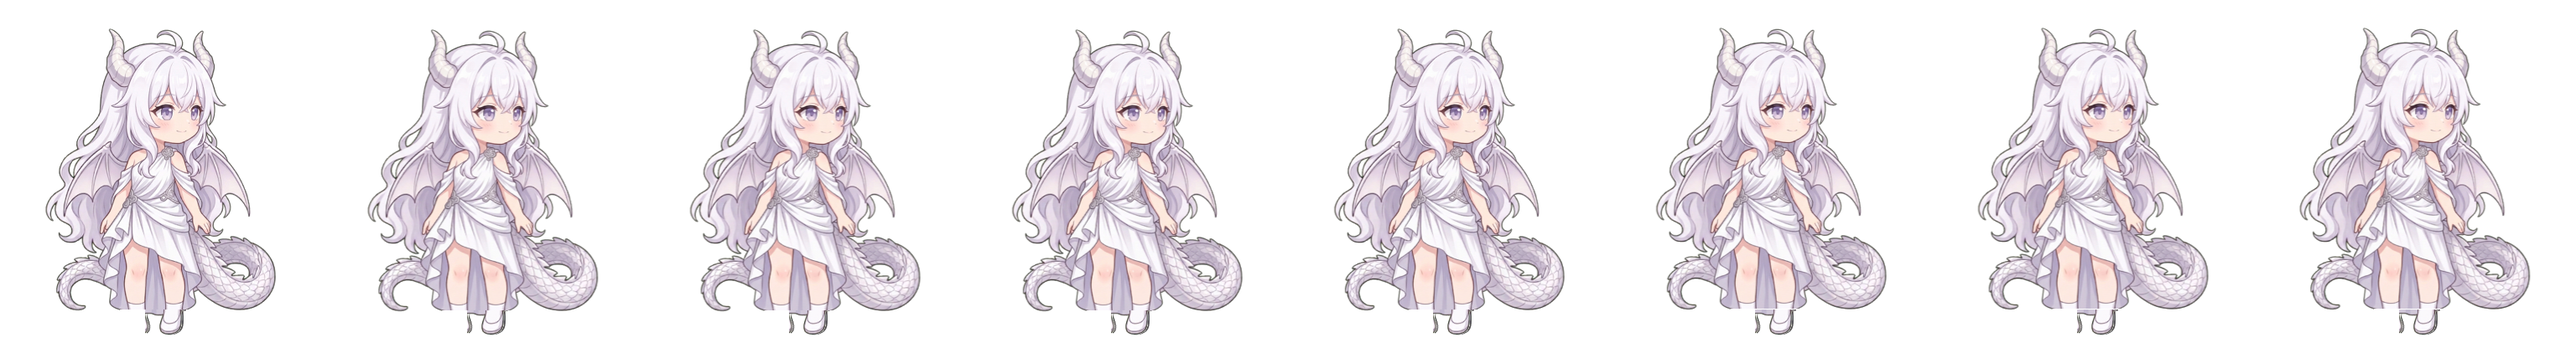
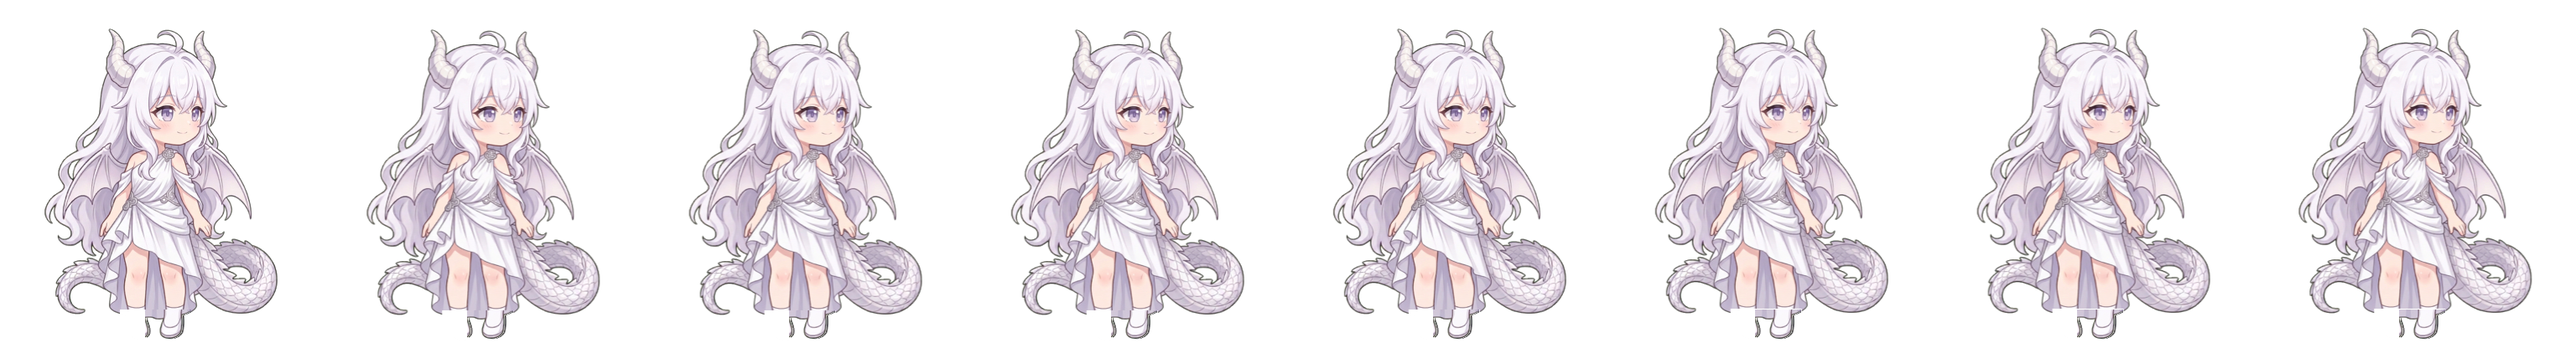
走路改成"逐帧成品立绘"（对标上游 pets），kimi 已切换
上游 ai-girl-chatgpt-pets 的 running-right 是每帧单独画一张全身像：
8 格 bbox 几乎完全一致（38,37,153,203），腿是画出来的、不是切出来的。
我们的单腿切片骨架一迈步就变成"两条断腿"，方向错了。

- walk_cycle_v14.mjs 新增逐帧成品模式：`frames/<char>/f1..f8.png` 八张齐全时，
  直接 抠白 → 按身高归一到 ART_H（每帧同高）→ 脚底贴 GROUND_Y →
  上半身重心对到单元格中线 → 拼成 8 格图集；不切腿、不蒙皮、不形变。
  没有逐帧立绘的角色自动退回原骨架，一张补齐就切换一张。
- cutoutWhite 增加"底部地面灰带"剔除：生成图底部那条浅灰地面线 flood fill 进不去，
  会把包围盒撑满整张图，导致人物忽大忽小、脚下挂一条灰边。
- 新工具 slice_walk_sheet.py：一张 2×2 四格姿态图 → 4 张逐帧立绘
  （顺便擦掉每格底部地面线、按 inset 内缩）。一次生图稳定出 4 个姿态，
  所以每个角色只需 2 张四格图 = 8 帧。
- kimi：用 8 张单独生成的走路立绘切到逐帧成品模式（f1 触地 → f2 蹬地 →
  f3 提膝 → f4 前伸，f5..f8 反相半套），腿全程和身体连着，不再有断腿/复制腿。

验证：atlas 重烘 9 套；metrics 87 条；tools/engine 64/65、tools/remotion-engine 3/4（均为既有失败）。

diff --git a/tools/remotion-engine/slice_walk_sheet.py b/tools/remotion-engine/slice_walk_sheet.py
@@ -1,0 +1,95 @@
+#!/usr/bin/env python3
+"""slice_walk_sheet.py — 把「2×2 四格走路姿态图」切成 4 张逐帧立绘
+
+对标上游 pets 的做法：走路的每一帧都是**画出来的全身像**，不是从一张站姿里切腿。
+一次生图能稳定产出 4 个姿态，所以每个角色只要 2 张四格图 = 8 帧。
+
+用法：
+    # 第一张四格图 → f1..f4
+    python3 tools/remotion-engine/slice_walk_sheet.py sheet_a.png --char whale --offset 1
+    # 第二张四格图 → f5..f8
+    python3 tools/remotion-engine/slice_walk_sheet.py sheet_b.png --char whale --offset 5
+
+产物：assets/ai-girls/walk-v14/frames/<char>/f1.png … f8.png
+之后 `node tools/remotion-engine/build_walk_v14.mjs <char>` 会直接按逐帧成品拼图集。
+
+切完会顺手处理掉两件生成图常见的问题：
+  * 每个格子底部那条「地面线」——不擦掉会变成脚下一根黑条；
+  * 格子边缘的重叠/白边——按 alpha 之外的白底留 2% 余量。
+"""
+
+import argparse
+import os
+import sys
+
+from PIL import Image
+
+ROOT = os.path.abspath(os.path.join(os.path.dirname(__file__), '..', '..'))
+FRAME_ROOT = os.path.join(ROOT, 'assets', 'ai-girls', 'walk-v14', 'frames')
+
+ORDER = ['f1', 'f2', 'f3', 'f4']  # 左上、右上、左下、右下 → 帧序
+
+
+def is_ground_line(px):
+    r, g, b = px[0], px[1], px[2]
+    mx, mn = max(r, g, b), min(r, g, b)
+    return mx - mn <= 26 and 24 <= mn <= 150
+
+
+def strip_ground_line(tile):
+    """把格子底部那条横贯全宽的地面线擦成白底。"""
+    tile = tile.convert('RGB')
+    w, h = tile.size
+    px = tile.load()
+    removed = 0
+    for y in range(h - 1, int(h * 0.55) - 1, -1):
+        dark = sum(1 for x in range(w) if is_ground_line(px[x, y]))
+        if dark >= w * 0.55:
+            for x in range(w):
+                px[x, y] = (255, 255, 255)
+            removed += 1
+        elif removed:
+            break
+    return tile
+
+
+def main():
+    ap = argparse.ArgumentParser()
+    ap.add_argument('sheet')
+    ap.add_argument('--char', required=True)
+    ap.add_argument('--offset', type=int, default=1, choices=(1, 5),
+                    help='1 → 写 f1..f4；5 → 写 f5..f8')
+    ap.add_argument('--inset', type=float, default=0.01,
+                    help='每格向内收的比例，躲掉格子之间的串味（默认 1%%）')
+    args = ap.parse_args()
+
+    sheet = Image.open(args.sheet).convert('RGB')
+    w, h = sheet.size
+    hw, hh = w // 2, h // 2
+    inset_x, inset_y = int(w * args.inset), int(h * args.inset)
+    boxes = [
+        (inset_x, inset_y, hw - inset_x, hh - inset_y),
+        (hw + inset_x, inset_y, w - inset_x, hh - inset_y),
+        (inset_x, hh + inset_y, hw - inset_x, h - inset_y),
+        (hw + inset_x, hh + inset_y, w - inset_x, h - inset_y),
+    ]
+
+    out_dir = os.path.join(FRAME_ROOT, args.char)
+    os.makedirs(out_dir, exist_ok=True)
+    for i, box in enumerate(boxes):
+        tile = strip_ground_line(sheet.crop(box))
+        name = ORDER[i] if args.offset == 1 else 'f%d' % (i + 5)
+        path = os.path.join(out_dir, name + '.png')
+        tile.save(path)
+        print('wrote', path, tile.size)
+
+    have = sorted(os.listdir(out_dir))
+    if len([f for f in have if f.startswith('f') and f.endswith('.png')]) >= 8:
+        print('%s 已有 8 帧，跑 node tools/remotion-engine/build_walk_v14.mjs %s 出图集'
+              % (args.char, args.char))
+    else:
+        print('%s 还差另外半套四格图（--offset %s）' % (args.char, 5 if args.offset == 1 else 1))
+
+
+if __name__ == '__main__':
+    sys.exit(main())

diff --git a/AGENTS.md b/AGENTS.md
@@ -15,7 +15,7 @@
 ## 导演与稳定画面
 
 用户提到画面抖动、站桩、镜头重复、走路怪异/多腿或重做视频时，先读 `.claude/skills/day-series-director/SKILL.md` 与 `agent.md` 第 33–34 条。按当前口播写音画双栏/逐镜卡，可基于 Day 系列通用单集模板 `tools/engine/day_episode.template.spec.mjs` 编写 `directorVersion=1` 的 spec：
-- **通用步态与同体待机**：角色走位优先声明 `locomotion: 'side_walk' | 'walk' | 'happy_walk' | 'sad_walk' | 'push_walk' | 'idle'` 配合 `walk` / `track`。步态图集一律 **8 帧 / 每帧 120ms（一轮 0.96s 双步周期）**，与 `tqlearning/ai-girl-chatgpt-pets` 的 `running-right` 同规格；全部 8 位角色（whale / gpt / gemini / claude / kimi / qwen / zai / doubao）已切到 `assets/ai-girls/walk-v14/` 的 v14 八帧图集（AI 重绘的直立侧 3/4 立绘 → 单腿切片分层 → 前后腿绕髋刚性旋转 180° 反相、支撑腿踩死地面线、摆动腿抬脚离地 → 裙摆裁剪，走停同体零跳变）；坐长椅图集（`whale_seat_side_bench` / `sit_bench` 预设）已整体下线；`gpt_push_*`（双手推山）已按新立绘重做。**严禁再把 16 格图集当成 8 列播放**（会只播半个周期，看上去是抖腿不迈步）。审阅：`python3 tools/remotion-engine/render_walk_clips.py` 出每位角色的走路 GIF / 8 帧条带 / 3×3 总览，或 `node tools/remotion-engine/walk_preview.mjs --port 8099` 网页逐帧定格。10 骨高清网格主角亦可使用 `action: 'walk_natural' | 'stroll_calm' | 'step_back' | 'sit_settle'`。
+- **通用步态与同体待机**：角色走位优先声明 `locomotion: 'side_walk' | 'walk' | 'happy_walk' | 'sad_walk' | 'push_walk' | 'idle'` 配合 `walk` / `track`。步态图集一律 **8 帧 / 每帧 120ms（一轮 0.96s 双步周期）**，与 `tqlearning/ai-girl-chatgpt-pets` 的 `running-right` 同规格；全部 8 位角色（whale / gpt / gemini / claude / kimi / qwen / zai / doubao）已切到 `assets/ai-girls/walk-v14/` 的 v14 八帧图集（**逐帧成品**：`assets/ai-girls/walk-v14/frames/<char>/f1..f8.png` 八张全身走路立绘直接拼图集，和上游 pets 一样每帧都是画出来的；没有逐帧立绘的角色才退回「单腿切片 + 绕髋反相摆动」的过渡骨架。出图用 `slice_walk_sheet.py` 把 2×2 四格图切成 4 帧，一个角色 2 张四格图 = 8 帧）；坐长椅图集（`whale_seat_side_bench` / `sit_bench` 预设）已整体下线；`gpt_push_*`（双手推山）已按新立绘重做。**严禁再把 16 格图集当成 8 列播放**（会只播半个周期，看上去是抖腿不迈步）。审阅：`python3 tools/remotion-engine/render_walk_clips.py` 出每位角色的走路 GIF / 8 帧条带 / 3×3 总览，或 `node tools/remotion-engine/walk_preview.mjs --port 8099` 网页逐帧定格。10 骨高清网格主角亦可使用 `action: 'walk_natural' | 'stroll_calm' | 'step_back' | 'sit_settle'`。
 - **全局零视频水印新规**：所有当前及今后新制作的视频与发布封面（MV、Day 正传、横/竖屏）一律不加右上角水印或常驻角标；此前已归档的历史成片保留原样不动。
 - 默认固定机位或每镜最多一次有动机运镜、`idleMotion` 可关闭，不用整体晃动代替事件；视觉姿态与手掌接触校准分开，严禁篡改固定 PNG 五官。
 Day12当前指定原音源版入口为 `Day12/README.md`、`Day12/Day12有声分镜.md` 与 `tools/day12制作/episode.production.spec.mjs`，实际结果看同目录 `final_check.json`（不可脱离成片SHA引用）。原25行锁稿不改；指定音源未读首句，因此有独立24行视频字幕稿。用真实ASR整词区间绑定、关闭聚光灯、固定机位、独立stem混音验收；不声称音素级对齐、手纸真实接触或真人完整听审。`episode.spec.mjs`及四段无声样片是历史planning方案，不能替代当前有声版验收。

diff --git a/assets/ai-girls/walk-v14/README.md b/assets/ai-girls/walk-v14/README.md
@@ -9,6 +9,7 @@
 ```
 walk-v14/
   source/                     本轮重新生成的侧 3/4 立绘（AI 生成，白底，8 位角色各一张）
+  frames/<char>/f1..f8.png    逐帧成品立绘（走路的每一帧都是画出来的，和上游 pets 一致）
   <atlas>.png                 8 格 × 384×416 成品图集（透明 PNG）
   preview/<char>_strip.png     8 帧并排、脚底同一条地面线（静态审阅）
   preview/<char>_walk.gif      3s/25fps 走过舞台（每 120ms 换格，`render_walk_clips.py` 生成，默认不入库）
@@ -40,7 +41,38 @@ walk-v14/
 长椅坐姿（`whale_seat_side_bench` / `sit_bench`）已整体下线：代码、预设、模板、MV 规格、
 指标表里都不再有这个名字。
 
-## 下半身驱动：单腿切片 + 髋关节反相摆动
+## 两种出图模式（优先逐帧成品）
+
+上游 `ai-girl-chatgpt-pets` 的 `running-right` 是**每一帧单独画一张全身像**：
+8 格每格的 bbox 几乎完全一样（38,37,153,203），腿是画出来的、不是切出来的，
+所以迈步时腿和身体始终是同一条轮廓。
+
+v14 现在也支持这条路，并且**优先用它**：
+
+| 模式 | 触发条件 | 做法 |
+| --- | --- | --- |
+| **逐帧成品**（推荐） | `frames/<char>/f1.png … f8.png` 八张齐全 | 抠白 → 按身高归一到 `ART_H`（每帧同高）→ 脚底贴 `GROUND_Y` → 上半身重心对到单元格中线 → 直接拼成 8 格图集。不切腿、不蒙皮、不做任何形变 |
+| 单腿切片骨架（过渡） | 没有 `frames/` 的角色 | 取一条腿的切片做前腿、压暗复制做后腿，绕髋反相刚性旋转 |
+
+当前状态：**kimi 已切到逐帧成品**；其余 8 套仍在单腿切片骨架上，
+逐帧立绘补齐一张就自动切换一张（`build_walk_v14.mjs` 会自动检测，不需要改代码）。
+
+### 逐帧立绘怎么来
+
+一次生图稳定出 4 个姿态，所以每个角色只要 **2 张 2×2 四格图 = 8 帧**：
+
+```bash
+# 第一张四格图（左上/右上/左下/右下 → f1..f4）
+python3 tools/remotion-engine/slice_walk_sheet.py sheet_a.png --char whale --offset 1
+# 第二张（另外半套相位）→ f5..f8
+python3 tools/remotion-engine/slice_walk_sheet.py sheet_b.png --char whale --offset 5
+# 拼图集（自动走逐帧成品模式）
+node tools/remotion-engine/build_walk_v14.mjs whale
+```
+
+切片器会擦掉每格底部那条地面线、并按 `--inset` 内缩躲开格子之间的串味。
+
+## 下半身驱动：单腿切片 + 髋关节反相摆动（仅过渡角色）
 
 八个角色共用一套腿的驱动方式（不再是早期的 `split` 劈腿 / `block` 斜切两种模式）：
 

diff --git a/tools/remotion-engine/README.md b/tools/remotion-engine/README.md
@@ -19,6 +19,7 @@
 - `mv_adapter.mjs`：歌词 MV 声明式规格适配器
 - `walk_rig_builder.mjs`：**8 帧步态 / 待机图集注册表与构建器**（`WALK_FRAMES = 8`，8 帧 × 120ms = 0.96s 双步周期，对齐 `tqlearning/ai-girl-chatgpt-pets` 的 `running-right`；仓库内 `assets/ai-girls/walk-v14/*.png` 有预烘成品时优先直接读取）
 - `walk_cycle_v14.mjs` + `build_walk_v14.mjs`：**v14 侧 3/4 八帧行走生成器**（AI 重绘的直立体侧立绘 → 上身/单腿切片分层 → 八姿态；一条腿切片做前腿、压暗复制做后腿，两腿绕髋**刚性旋转**严格 180° 反相，支撑腿脚底钉在 `GROUND_Y`、摆动腿抬脚离地，髋部起伏由腿倾角反推；腿层裁剪在 `legTop..GROUND_Y`，绝无灰腿鬼影 / 断膝 / 第三条腿 / 踩穿地面）；`node tools/remotion-engine/build_walk_v14.mjs` 落盘全部 9 套图集到 `assets/ai-girls/walk-v14/`
+- `slice_walk_sheet.py`：**把一张 2×2 四格走路姿态图切成 4 张逐帧立绘**（`python3 tools/remotion-engine/slice_walk_sheet.py sheet.png --char whale --offset 1|5`，顺带擦掉每格底部的地面线）→ 写进 `assets/ai-girls/walk-v14/frames/<char>/f1..f8.png`；八张齐了 `build_walk_v14.mjs` 就自动改走**逐帧成品模式**（和上游 pets 一样，每帧都是画出来的全身像，不切腿不蒙皮）
 - `render_walk_clips.py`：**把图集渲染成能直接看的走路片**（`python3 tools/remotion-engine/render_walk_clips.py [char…]` → `preview/<char>_walk.gif` 3s/25fps 每 120ms 换格、`preview/<char>_strip.png` 8 帧同地面线静态条带、`preview/walk_all8_sheet.png` 3×3 总览；GIF 体积较大，默认不入库，改了图集再跑一次即可）
 - `walk_preview.mjs`：走路图集审阅台（`node tools/remotion-engine/walk_preview.mjs --port 8099`，120ms 逐帧播放 + 单帧定格）
 - `render_cli.mjs`：支持 `--bundle-check`、`--dry-run`、本地静态资源 HTTP 服务与 MP4/PNG 渲染的统一 CLI
